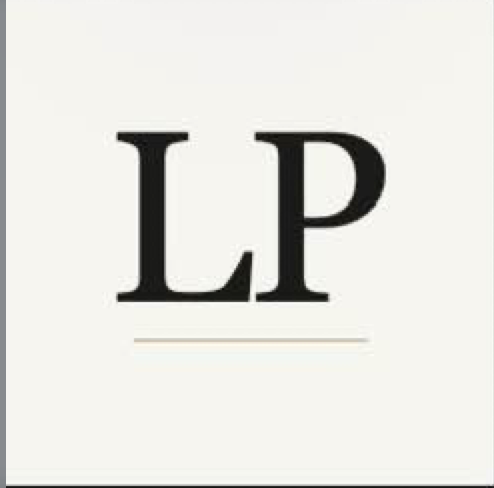
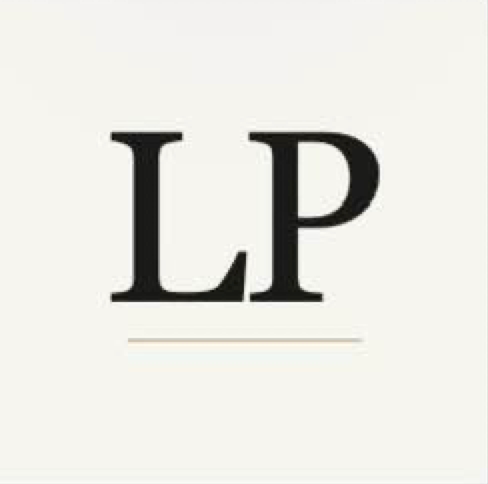
fix(brand): remove edge fringe from LP mark asset
The PNG had a gray column on the left and a dark band on the bottom
(baked into the file, not CSS). Trim those pixels with sharp and align
the plate background to the mark cream (#f6f5ef). Update intrinsic
dimensions for the Image hint.

diff --git a/src/components/BrandLogo.tsx b/src/components/BrandLogo.tsx
@@ -35,14 +35,14 @@ export default function BrandLogo({
       role={decorative ? undefined : "img"}
       aria-hidden={decorative ? true : undefined}
       aria-label={decorative ? undefined : ariaLabel}
-      className={`inline-flex shrink-0 items-center justify-center overflow-hidden rounded-[4px] bg-[#f0ede8] ${className}`}
+      className={`inline-flex shrink-0 items-center justify-center overflow-hidden rounded-[4px] bg-[#f6f5ef] ${className}`}
       style={{ width: dim, height: dim, ...style }}
     >
       <Image
         src="/img/brand-lp-mark.png"
         alt={decorative ? "" : ariaLabel}
-        width={512}
-        height={512}
+        width={488}
+        height={484}
         className="block h-full w-full object-contain object-center select-none"
         sizes={`${dim}px`}
         priority={priority}
